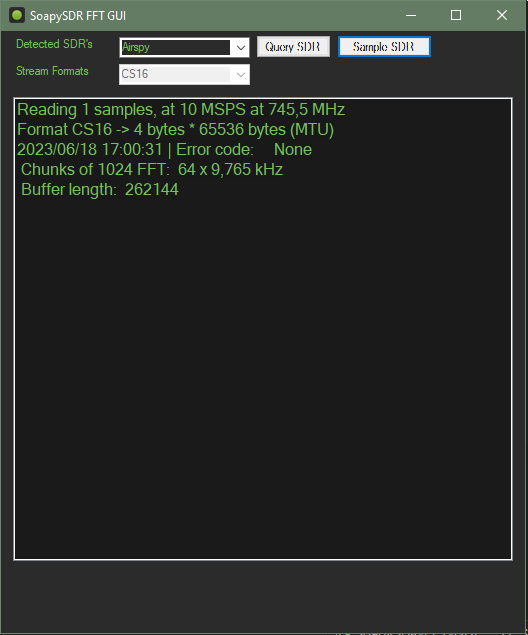
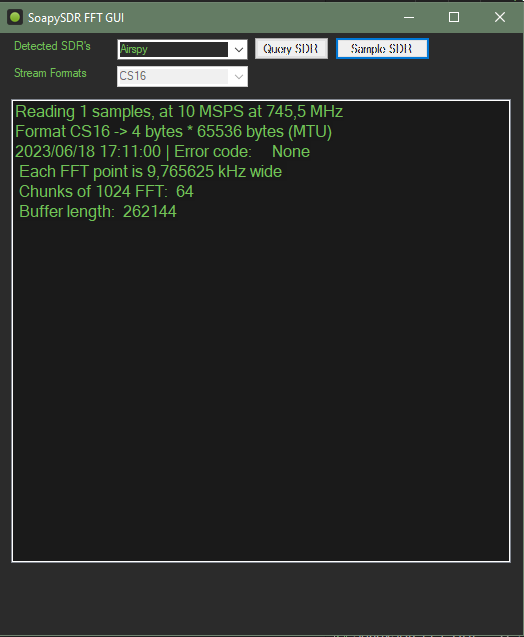
Use actual sample rate

Changed region(s): [[0.0, 0.0, 1.0, 1.0], [0.6718, 0.9874, 0.7939, 1.0], [0.855, 0.9874, 0.8855, 1.0]]

diff --git a/SoapySDRFFTGUI/Form1.cs b/SoapySDRFFTGUI/Form1.cs
@@ -367,6 +367,13 @@ namespace SoapySDRFFTGUI
 
         private void ExampleUsePlanDirectly(float[] floatBuffer,short[] shortBuffer, RxStream rxStream, decimal numSamps, bool floats = false)
         {
+            var selectedSDR = comboBox1.SelectedItem;
+            var sampleRate = 0d;
+
+            foreach (var sdr in SDRs)
+                if (sdr.DriverKey.Equals(selectedSDR))
+                    sampleRate = sdr.GetSampleRate(Direction.Rx, 0);
+
             // Use the same arrays for as many transformations as you like.
             // If you can use the same arrays for your transformations, this is faster than calling DFT.FFT / DFT.IFFT
             // TODO: This is a combo of rtl_map and eshail-ghy-wb-fft-airspy from BATC, regarding data transforms.
@@ -384,7 +391,7 @@ namespace SoapySDRFFTGUI
             int out_r;
             int out_i;
             var strb = new StringBuilder();
-            var chunks = 10_000_000 / FFT_SIZE;
+            var chunks = sampleRate / FFT_SIZE;
             while (cnt < (int)(rxStream.MTU / FFT_SIZE))
             {
                 int offset;
@@ -454,7 +461,8 @@ namespace SoapySDRFFTGUI
             }
 
             var buffLen = floats ? floatBuffer.Length : shortBuffer.Length;
-            listBox1.Items.Add($" Chunks of {FFT_SIZE} FFT:  {cnt} x {chunks/1_000f} kHz");
+            listBox1.Items.Add($" Each FFT point is {chunks/1_000f} kHz wide ");
+            listBox1.Items.Add($" Chunks of {FFT_SIZE} FFT:  {cnt}");
             listBox1.Items.Add($" Buffer length:  {buffLen}");
             Logger.Log(LogLevel.Info, $"{strb}");
         }
